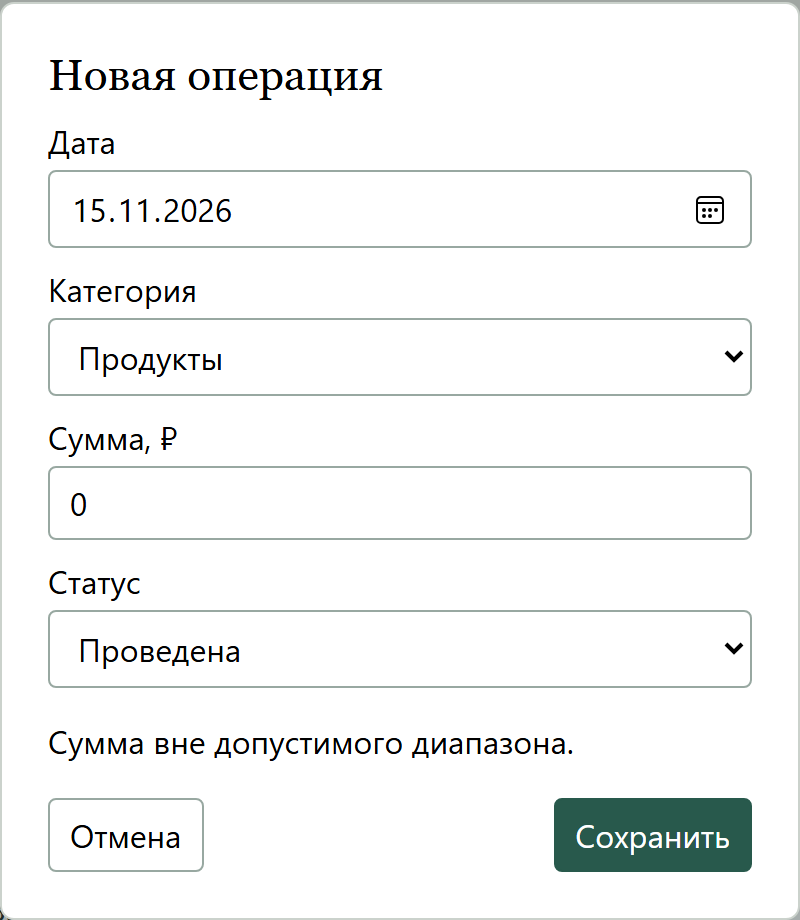
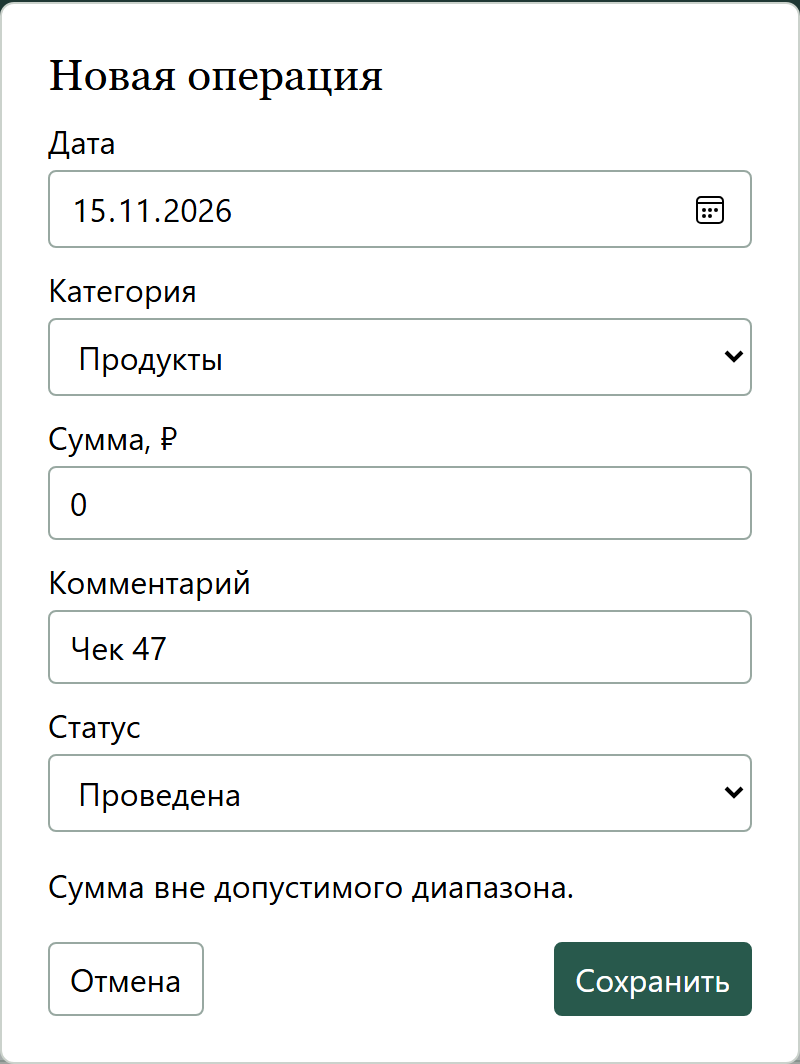
Согласовать модель проведения, прототип формы и проверки импорта

Changed region(s): [[0.0, 0.0, 1.0, 0.9739], [0.0625, 0.8826, 0.25, 0.9739]]

diff --git a/prototype/index.html b/prototype/index.html
@@ -18,7 +18,7 @@ button.open{background:transparent;border:0;padding:0;color:#205449;text-decorat
 <div class="cards"><div class="card"><span>Доходы за месяц</span><strong id="income"></strong></div><div class="card"><span>Расходы за месяц</span><strong id="expense"></strong></div><div class="card"><span>Остаток на конец месяца</span><strong id="balance"></strong></div></div>
 <nav><button id="journal" aria-pressed="true">Журнал</button><button id="analytics" aria-pressed="false">Расходы по категориям</button></nav>
 <article><div class="title"><h2 id="heading">Операции</h2><button id="add" class="primary">Добавить операцию</button></div><div id="table"></div><p id="notice" role="status" aria-live="polite"></p></article></main>
-<dialog><form id="form"><h2 id="formTitle">Новая операция</h2><p id="origin"></p><label>Дата<input type="date" name="day" min="2026-11-01" max="2026-12-31" required></label><label>Категория<select name="category"><option>Продукты</option><option>Транспорт</option><option>Досуг</option><option>Зарплата</option></select></label><label>Сумма, ₽<input name="amount" inputmode="decimal" placeholder="1 250,40" required></label><label>Статус<select name="status"><option value="posted">Проведена</option><option value="draft">Черновик</option><option value="void" hidden>Аннулирована</option></select></label><p id="err" role="alert"></p><div class="actions"><button type="button" id="close">Отмена</button><button class="primary">Сохранить</button></div></form></dialog>
+<dialog><form id="form"><h2 id="formTitle">Новая операция</h2><p id="origin"></p><label>Дата<input type="date" name="day" min="2026-11-01" max="2026-12-31" required></label><label>Категория<select name="category"><option>Продукты</option><option>Транспорт</option><option>Досуг</option><option>Зарплата</option></select></label><label>Сумма, ₽<input name="amount" inputmode="decimal" placeholder="1 250,40" required></label><label>Комментарий<input name="note" autocomplete="off"></label><label>Статус<select name="status"><option value="posted">Проведена</option><option value="draft">Черновик</option><option value="void" hidden>Аннулирована</option></select></label><p id="err" role="alert"></p><div class="actions"><button type="button" id="close">Отмена</button><button class="primary">Сохранить</button></div></form></dialog>
 <script>
 const el=id=>document.getElementById(id), fmt=n=>(n/100).toLocaleString('ru-RU',{minimumFractionDigits:2,maximumFractionDigits:2})+' ₽';
 const entries=[
@@ -63,6 +63,7 @@ function openEntry(entry){
  fields.status.querySelector('[value=void]').hidden=!entry;
  fields.status.querySelector('[value=draft]').disabled=entry?.st==='posted';
  fields.status.value=entry?entry.st:'posted';
+ fields.note.value=entry?.note || '';
  if(entry){fields.category.value=entry.cat;fields.amount.value=(entry.amount/100).toFixed(2).replace('.',',')}
  el('err').textContent='';dialog.showModal();
 }
@@ -72,7 +73,7 @@ form.onsubmit=e=>{e.preventDefault();const data=new FormData(form), raw=data.get
  if(!/^\d+(\.\d{1,2})?$/.test(raw)){el('err').textContent='Введите положительную сумму с точностью до копейки.';return}
  const [units,frac='']=raw.split('.'), amount=Number(units)*100+Number(frac.padEnd(2,'0'));
  if(amount<1||amount>1e12){el('err').textContent='Сумма вне допустимого диапазона.';return}
- const record={day:data.get('day'),cat:data.get('category'),amount,st:data.get('status')};
+ const record={day:data.get('day'),cat:data.get('category'),amount,st:data.get('status'),note:data.get('note')};
  if(editing && record.st==='void') editing.st='void';
  else if(editing) Object.assign(editing,record);
  else entries.push(record);

diff --git a/tests/test_basic.py b/tests/test_basic.py
@@ -73,6 +73,38 @@ class FinanceTests(unittest.TestCase):
         with self.assertRaises(ValueError):
             apply(self.db,1,StringIO(header+row.replace("11-18","11-31")))
 
+    def test_malformed_csv_location(self):
+        for line, content in [(1, '"unclosed'), (3, header + row + '"unclosed')]:
+            with self.subTest(line=line), self.assertRaisesRegex(ValueError, f"Строка {line}"):
+                apply(self.db, 1, StringIO(content))
+            self.assertEqual(self.totals()[1], 140000)
+
+    def test_equivalent_iso_dates(self):
+        self.assertEqual(monthly(self.db, 1, "20261101", "20261201"), self.totals())
+
+    def test_manual_and_imported_purchase(self):
+        # Одинаковая дата и сумма без общего банковского ключа требуют решения владельца.
+        manual = draft(self.db, 1, 2, "2026-11-18", 23010, note="Чек 47")
+        change_status(self.db, manual, 1, "posted")
+        self.db.commit()
+        self.assertEqual(apply(self.db, 1, StringIO(header + row)), (1, 0))
+        self.assertEqual(self.totals()[1:3], (186020, 3813980))
+        with self.db:
+            change_status(self.db, manual, 2, "void")
+        self.assertEqual(apply(self.db, 1, StringIO(header + row)), (0, 1))
+        self.assertEqual(self.totals()[1:3], (163010, 3836990))
+
+    def test_failed_second_write_rolls_back_batch(self):
+        self.db.execute("""CREATE TEMP TRIGGER simulate_failure BEFORE INSERT ON entry
+                           WHEN NEW.bank_ref='B-009'
+                           BEGIN SELECT RAISE(ABORT,'write failure'); END""")
+        before = self.totals()
+        with self.assertRaisesRegex(sqlite3.IntegrityError, "write failure"):
+            apply(self.db, 1, StringIO(header + row + row.replace("B-008", "B-009")))
+        self.assertEqual(self.totals(), before)
+        count = self.db.execute("SELECT count(*) FROM entry WHERE bank_ref IS NOT NULL").fetchone()[0]
+        self.assertEqual(count, 0)
+
     def test_backup(self):
         with tempfile.TemporaryDirectory() as tmp:
             copy = connect(Path(tmp)/"copy.db")

diff --git a/src/import_csv.py b/src/import_csv.py
@@ -6,19 +6,32 @@ from .models import draft, parse_amount, change_status
 HEADER = ["bank_ref", "booked_on", "kind", "category", "amount"]
 
 
+def numbered_rows(stream):
+    parser = csv.reader(stream, strict=True)
+    try:
+        for fields in parser:
+            yield parser.line_num, fields
+    except csv.Error as error:
+        raise ValueError(f"Строка {parser.line_num}. Нарушен синтаксис CSV.") from error
+
+
 def prepare(connection, account, stream):
-    reader = csv.DictReader(stream, strict=True)
-    if reader.fieldnames != HEADER:
+    rows = numbered_rows(stream)
+    _, header = next(rows, (0, []))
+    if header != HEADER:
         raise ValueError("Заголовок CSV не соответствует профилю.")
     opening = connection.execute("SELECT opened_on FROM account WHERE id=?", (account,)).fetchone()
     if not opening:
         raise ValueError("Счёт не найден.")
     new = {}
     skipped = 0
-    for row in reader:
+    for line_number, fields in rows:
+        if not fields:
+            continue
         try:
-            if None in row or any(v is None for v in row.values()):
+            if len(fields) != len(HEADER):
                 raise ValueError("Неверное количество полей.")
+            row = dict(zip(HEADER, fields))
             ref = row["bank_ref"].strip()
             day = date.fromisoformat(row["booked_on"]).isoformat()
             if day != row["booked_on"] or day < opening[0] or not ref:
@@ -40,7 +53,7 @@ def prepare(connection, account, stream):
             else:
                 new[ref] = item
         except (ValueError, TypeError) as error:
-            raise ValueError(f"Строка {reader.line_num}. {error}") from error
+            raise ValueError(f"Строка {line_number}. {error}") from error
     return new, skipped
 
 

diff --git a/src/reports.py b/src/reports.py
@@ -4,7 +4,9 @@ from datetime import date
 
 def monthly(connection, account_id, start, end):
     """Получить обороты за [start, end) и остаток на конец периода."""
-    if date.fromisoformat(start) >= date.fromisoformat(end):
+    start = date.fromisoformat(start).isoformat()
+    end = date.fromisoformat(end).isoformat()
+    if start >= end:
         raise ValueError("Конец периода должен быть позже начала.")
     account = connection.execute(
         "SELECT opened_on, opening_minor FROM account WHERE id=?", (account_id,)
